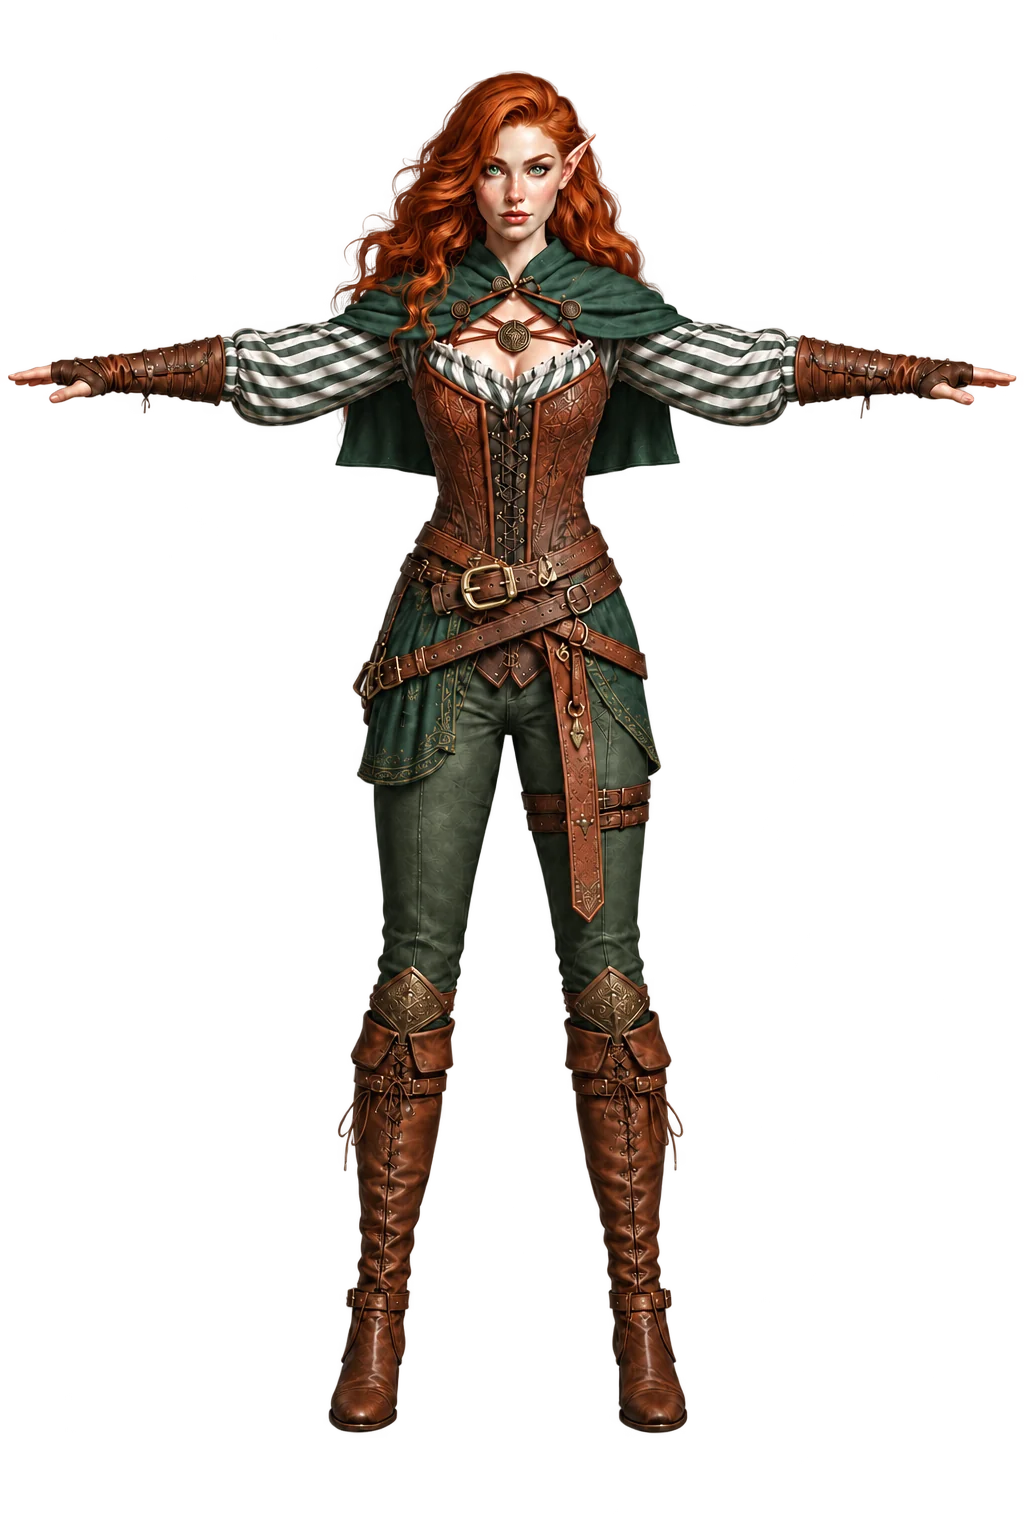
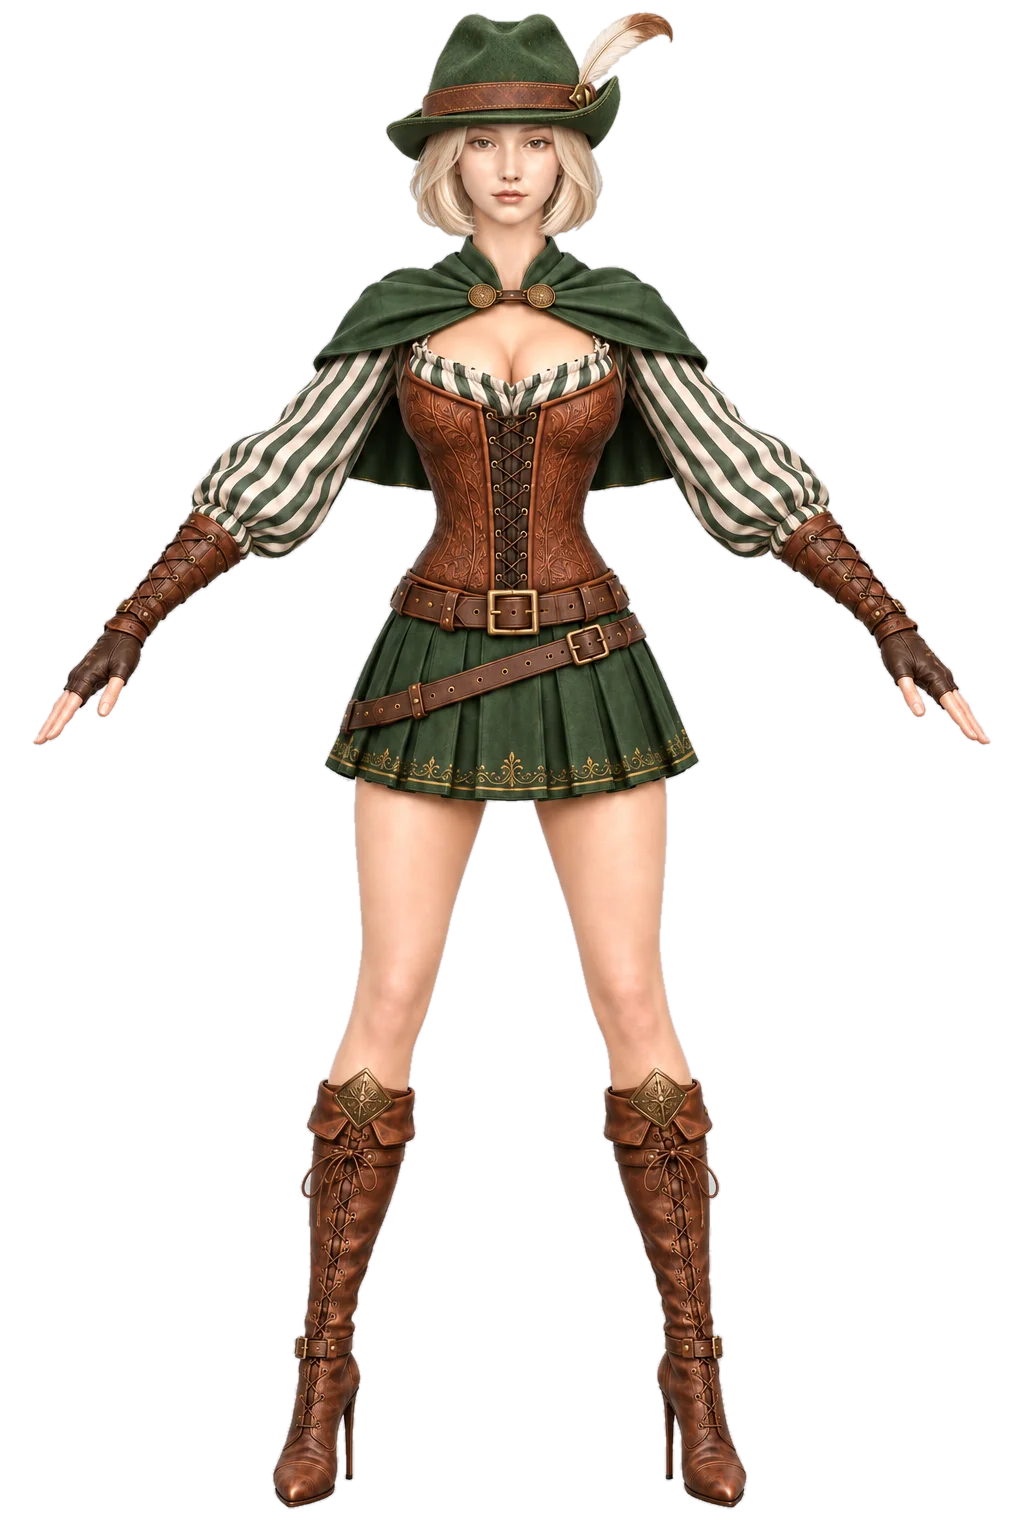
Put female bards on the modular body in the new bard outfit
Female bards now use the shared female body, choose hair and colours at
creation, and start with the bard hat, top, pants, boots and a new
untradeable worn_bard_gloves item, all equipped. The bard items show the
fitted corset and capelet, pleated skirt, fingerless gloves and
gold-soled stilettos; the hat has no female fit yet and stays hidden
over the bob. The gloves get an icon and ground model from the female
fit, the equipment background uses the new concept, and a grant tool
covers existing female bards.

Changed region(s): [[0.0, 0.0, 1.0, 1.0]]

diff --git a/client/src/lib/utils/femaleCharacter.test.ts b/client/src/lib/utils/femaleCharacter.test.ts
@@ -258,33 +258,39 @@ describe('female modular starter outfits', () => {
         const caveman = item.worldModel?.startsWith('armor/caveman_')
         const priest = item.worldModel?.startsWith('armor/priest_')
         const ranger = item.worldModel?.startsWith('armor/ranger_')
+        // The bard hat has no female fit yet, so it shows nothing.
+        const bard = item.worldModel?.startsWith('armor/bard_')
         const rogueStyle =
           item.worldModel?.startsWith('armor/rogue_') ||
           ['leather_armor', 'leather_gloves', 'leather_boots'].includes(id)
-        const [shown, hidden] = priest
-          ? [`priest_${part}`, part]
-          : ranger
-            ? [`ranger_${part}`, `barbarian_${part}`]
-            : caveman
-              ? [`caveman_${part}`, part]
-              : valkyrie
-                ? [`valkyrie_${part}`, part]
-                : rogueStyle
-                  ? [`rogue_${part}`, part]
-                  : brilliance
-                    ? ['brilliance_helmet', part]
-                    : barbarianStyle
-                      ? [`barbarian_${part}`, part]
-                      : [part, `barbarian_${part}`]
+        const [shown, hidden] = bard
+          ? [slot === 'head' ? undefined : `bard_${part}`, part]
+          : priest
+            ? [`priest_${part}`, part]
+            : ranger
+              ? [`ranger_${part}`, `barbarian_${part}`]
+              : caveman
+                ? [`caveman_${part}`, part]
+                : valkyrie
+                  ? [`valkyrie_${part}`, part]
+                  : rogueStyle
+                    ? [`rogue_${part}`, part]
+                    : brilliance
+                      ? ['brilliance_helmet', part]
+                      : barbarianStyle
+                        ? [`barbarian_${part}`, part]
+                        : [part, `barbarian_${part}`]
         await applyCharacterArmor(modelRoot, { [slot]: id } as ArmorEquipment)
-        expect(count(modelRoot, shown), id).toBeGreaterThan(0)
+        if (shown) expect(count(modelRoot, shown), id).toBeGreaterThan(0)
         expect(count(modelRoot, hidden), id).toBe(0)
         if (brilliance) expect(count(modelRoot, 'barbarian_helmet'), id).toBe(0)
         if (slot === 'head') {
           expect(count(modelRoot, 'barbarian_hair') > 0, id).toBe(
-            barbarianStyle
+            barbarianStyle && !bard
           )
-          expect(count(modelRoot, 'hair') > 0, id).toBe(valkyrie || priest)
+          expect(count(modelRoot, 'hair') > 0, id).toBe(
+            valkyrie || priest || !!bard
+          )
         }
       }
       await applyCharacterArmor(modelRoot, {})
@@ -326,6 +332,27 @@ describe('female modular starter outfits', () => {
         head: 'worn_priest_helmet',
       })
       expect(count(modelRoot, 'ranger_hair')).toBe(0)
+      expect(count(modelRoot, 'hair')).toBeGreaterThan(0)
+      disposeCharacterSkeletons(modelRoot)
+    }
+  )
+  it.skipIf(!hasAssets)(
+    'dresses female bards in their outfit and keeps the hair under the unfitted hat',
+    async () => {
+      expect(getCharacterModelPath('bard', 'female')).toBe(
+        MODULAR_FEMALE_MODEL_PATH
+      )
+      const source = await loadCharacterModel(MODULAR_FEMALE_MODEL_PATH)
+      const { modelRoot } = createCharacterModelRoot(source.scene)
+      await applyCharacterArmor(modelRoot, {
+        head: 'worn_bard_helmet',
+        chest: 'worn_bard_top',
+        pants: 'worn_bard_pants',
+        hands: 'worn_bard_gloves',
+        boots: 'worn_bard_boots',
+      })
+      for (const part of ['top', 'bottom', 'gloves', 'boots'])
+        expect(count(modelRoot, `bard_${part}`), part).toBeGreaterThan(0)
       expect(count(modelRoot, 'hair')).toBeGreaterThan(0)
       disposeCharacterSkeletons(modelRoot)
     }

diff --git a/client/src/lib/utils/femaleCharacter.ts b/client/src/lib/utils/femaleCharacter.ts
@@ -29,6 +29,7 @@ type Style =
   | 'caveman'
   | 'priest'
   | 'ranger'
+  | 'bard'
 const prefixes: Record<Style, string> = {
   plate: '',
   barbarian: 'barbarian_',
@@ -37,9 +38,12 @@ const prefixes: Record<Style, string> = {
   caveman: 'caveman_',
   priest: 'priest_',
   ranger: 'ranger_',
+  bard: 'bard_',
 }
 const styles = Object.keys(prefixes) as Style[]
-type Helmet = Exclude<Style, 'rogue' | 'caveman' | 'ranger'> | 'brilliance'
+type Helmet =
+  | Exclude<Style, 'rogue' | 'caveman' | 'ranger' | 'bard'>
+  | 'brilliance'
 const LAZY_HELMET = 'brilliance_helmet'
 export type FemaleHair = Extract<
   CharacterAppearance['hair'],
@@ -78,6 +82,7 @@ const LAZY_STYLES: Partial<Record<Style, readonly Slot[]>> = {
   caveman: slots.filter((slot) => slot !== 'helmet'),
   priest: slots,
   ranger: slots.filter((slot) => slot !== 'helmet'),
+  bard: slots.filter((slot) => slot !== 'helmet'),
 }
 const partName = (style: Style, slot: Slot | 'hair') =>
   `${prefixes[style]}${slot}`
@@ -363,6 +368,7 @@ const femaleStyle = (itemId: string | null | undefined): Style | null => {
   if (model.startsWith('armor/caveman_')) return 'caveman'
   if (model.startsWith('armor/priest_')) return 'priest'
   if (model.startsWith('armor/ranger_')) return 'ranger'
+  if (model.startsWith('armor/bard_')) return 'bard'
   if (model.startsWith('armor/rogue_') || ROGUE_LEATHER_MODELS.has(model))
     return 'rogue'
   return item?.material === 'leather' || model.startsWith('armor/barbarian_')
@@ -374,6 +380,8 @@ const femaleHelmet = (itemId: string | null | undefined): Helmet | null => {
   if (modularOutfitForArmor({ head: itemId }).helmet === 'brilliance')
     return 'brilliance'
   const style = femaleStyle(itemId)
+  // The bard hat has no female fit yet, so it is not drawn.
+  if (style === 'bard') return null
   return style === 'rogue' || style === 'caveman' || style === 'ranger'
     ? 'barbarian'
     : style

diff --git a/client/src/lib/utils/modelPaths.ts b/client/src/lib/utils/modelPaths.ts
@@ -159,7 +159,8 @@ export function getCharacterModelPath(
       characterClass === 'barbarian' ||
       characterClass === 'rogue' ||
       characterClass === 'caveman' ||
-      characterClass === 'priest') &&
+      characterClass === 'priest' ||
+      characterClass === 'bard') &&
     effectiveGender === 'female'
   )
     return MODULAR_FEMALE_MODEL_PATH

diff --git a/client/src/lib/components/CharacterCreateScene.svelte b/client/src/lib/components/CharacterCreateScene.svelte
@@ -97,6 +97,12 @@
     rogue: STARTER_EQUIPMENT.rogue,
     caveman: STARTER_EQUIPMENT.caveman,
     ranger: STARTER_EQUIPMENT.ranger,
+    bard: {
+      armor: {
+        ...STARTER_EQUIPMENT.bard?.armor,
+        hands: 'worn_bard_gloves',
+      },
+    },
     priest: {
       ...STARTER_EQUIPMENT.priest,
       armor: {

diff --git a/tools/grant-female-bard-starter-outfit-20261106.py b/tools/grant-female-bard-starter-outfit-20261106.py
@@ -1,0 +1,94 @@
+"""Grant missing female bard gear with services stopped; preview before applying."""
+import argparse
+import json
+import sqlite3
+from pathlib import Path
+
+
+STARTER_OUTFIT = (
+    "worn_bard_helmet",
+    "worn_bard_top",
+    "worn_bard_pants",
+    "worn_bard_gloves",
+    "worn_bard_boots",
+)
+
+
+def plan_grants(conn, npc_names, apply=False):
+    conn.execute("BEGIN IMMEDIATE")
+    grants = []
+    try:
+        characters = conn.execute(
+            "SELECT id, account_name, character_name FROM characters "
+            "WHERE gender = 'female' AND class = 'bard' ORDER BY id"
+        ).fetchall()
+        for character_id, account, name in characters:
+            if account.startswith("npc_") and name in npc_names:
+                continue
+            existing = {
+                row[0]
+                for row in conn.execute(
+                    "SELECT item_def_id FROM character_items WHERE character_id = ?",
+                    (character_id,),
+                )
+            }
+            for item_id in STARTER_OUTFIT:
+                if item_id in existing:
+                    continue
+                grant = {"character_id": character_id, "item_id": item_id}
+                if apply:
+                    cursor = conn.execute(
+                        "INSERT INTO character_items (character_id, item_def_id, quantity) "
+                        "VALUES (?, ?, 1)",
+                        (character_id, item_id),
+                    )
+                    grant["item_row_id"] = cursor.lastrowid
+                grants.append(grant)
+        if apply:
+            conn.commit()
+        else:
+            conn.rollback()
+    except Exception:
+        conn.rollback()
+        raise
+    return grants
+
+
+def main():
+    parser = argparse.ArgumentParser(description=__doc__)
+    parser.add_argument("db", type=Path)
+    parser.add_argument("--apply", action="store_true", help="Write items; default is preview.")
+    parser.add_argument(
+        "--expected-preview",
+        type=Path,
+        help="Preview JSON this run must match before applying.",
+    )
+    parser.add_argument(
+        "--data",
+        type=Path,
+        default=Path(__file__).resolve().parents[1] / "data",
+        help="Game data dir holding npcs.json and items.json.",
+    )
+    args = parser.parse_args()
+    npc_names = {
+        npc["npcName"] for npc in json.loads((args.data / "npcs.json").read_text()).values()
+    }
+    items = json.loads((args.data / "items.json").read_text())
+    for item_id in STARTER_OUTFIT:
+        item = items[item_id]
+        if not item.get("untradeable") or item.get("basePrice") is not None:
+            raise ValueError(f"Invalid starter outfit definition: {item_id}")
+    with sqlite3.connect(f"{args.db.resolve().as_uri()}?mode=rw", uri=True, timeout=10) as conn:
+        conn.execute("PRAGMA foreign_keys = ON")
+        if args.apply:
+            if args.expected_preview is None:
+                raise ValueError("--apply requires --expected-preview")
+            expected = json.loads(args.expected_preview.read_text())
+            if expected["applied"] or plan_grants(conn, npc_names) != expected["grants"]:
+                raise ValueError("Grant plan changed since preview")
+        grants = plan_grants(conn, npc_names, args.apply)
+    print(json.dumps({"applied": args.apply, "count": len(grants), "grants": grants}))
+
+
+if __name__ == "__main__":
+    main()

diff --git a/server/src/auth.rs b/server/src/auth.rs
@@ -117,7 +117,14 @@ fn class_starter_items(
             ("worn_bard_boots", 1, Some("boots")),
             ("worn_mandolin", 1, None),
         ],
-        CharacterClass::Bard => &[("worn_mandolin", 1, None)],
+        CharacterClass::Bard => &[
+            ("worn_bard_helmet", 1, Some("head")),
+            ("worn_bard_top", 1, Some("chest")),
+            ("worn_bard_pants", 1, Some("pants")),
+            ("worn_bard_gloves", 1, Some("hands")),
+            ("worn_bard_boots", 1, Some("boots")),
+            ("worn_mandolin", 1, None),
+        ],
         _ => &[],
     }
 }
@@ -3403,17 +3410,17 @@ mod tests {
             assert!(items.iter().any(|r| r.item_def_id == "worn_mandolin"));
             assert!(items.iter().any(|r| r.item_def_id == "worn_iron_sword"));
             let worn = auth.load_character_equipment(bard.id).unwrap();
-            if gender == Gender::Female {
-                assert_eq!(worn.armor, Default::default());
-                assert_eq!(items.len(), STARTER_ITEMS.len() + 1);
-                continue;
-            }
+            let female = gender == Gender::Female;
+            let gloves = female.then_some(("worn_bard_gloves", "hands"));
             for (id, slot) in [
                 ("worn_bard_helmet", "head"),
                 ("worn_bard_top", "chest"),
                 ("worn_bard_pants", "pants"),
                 ("worn_bard_boots", "boots"),
-            ] {
+            ]
+            .into_iter()
+            .chain(gloves)
+            {
                 let item = items.iter().find(|item| item.item_def_id == id).unwrap();
                 assert_eq!(item.quantity, 1);
                 assert_eq!(item.equip_slot.as_deref(), Some(slot));
@@ -3423,12 +3430,15 @@ mod tests {
                 assert!(def.untradeable);
                 assert_eq!(def.guard, Some(1));
             }
-            assert_eq!(items.len(), STARTER_ITEMS.len() + 5);
+            assert_eq!(items.len(), STARTER_ITEMS.len() + 5 + usize::from(female));
             assert_eq!(worn.armor.head.as_deref(), Some("worn_bard_helmet"));
             assert_eq!(worn.armor.chest.as_deref(), Some("worn_bard_top"));
             assert_eq!(worn.armor.pants.as_deref(), Some("worn_bard_pants"));
             assert_eq!(worn.armor.boots.as_deref(), Some("worn_bard_boots"));
-            assert!(worn.armor.hands.is_none());
+            assert_eq!(
+                worn.armor.hands.as_deref(),
+                female.then_some("worn_bard_gloves")
+            );
         }
 
         let knight = auth

diff --git a/shared/src/character.rs b/shared/src/character.rs
@@ -140,6 +140,7 @@ impl CharacterAppearance {
                     | CharacterClass::Valkyrie
                     | CharacterClass::Ranger
                     | CharacterClass::Priest
+                    | CharacterClass::Bard
             )
         {
             let (hair, hair_color) = if self.hair.is_female() {
@@ -206,7 +207,12 @@ mod appearance_tests {
         );
         assert_eq!(
             appearance.for_character(&CharacterClass::Bard, Gender::Female),
-            CharacterAppearance::default()
+            CharacterAppearance {
+                face: FaceStyle::Default,
+                hair: HairStyle::Bob,
+                hair_color: AppearanceColor(0xceb294),
+                ..appearance
+            }
         );
     }
 

diff --git a/tools/blender-scripts/export_outfit_items.py b/tools/blender-scripts/export_outfit_items.py
@@ -31,6 +31,8 @@ OUTFITS = {
         part: f"../modular_human_male_01/ranger/tripo_{part}_v{4 if part == 'top' else 1}/{part}_ranger.glb"
         for part in ("top", "pants", "gloves", "boots")
     },
+    # Only the gloves are new; the other bard items keep their male models.
+    "bard": {"gloves": "female_bard_outfit/gloves/fitted_v1/gloves_female_bard.glb"},
 }
 parser = argparse.ArgumentParser()
 parser.add_argument("--outfit", choices=OUTFITS, default="valkyrie")
